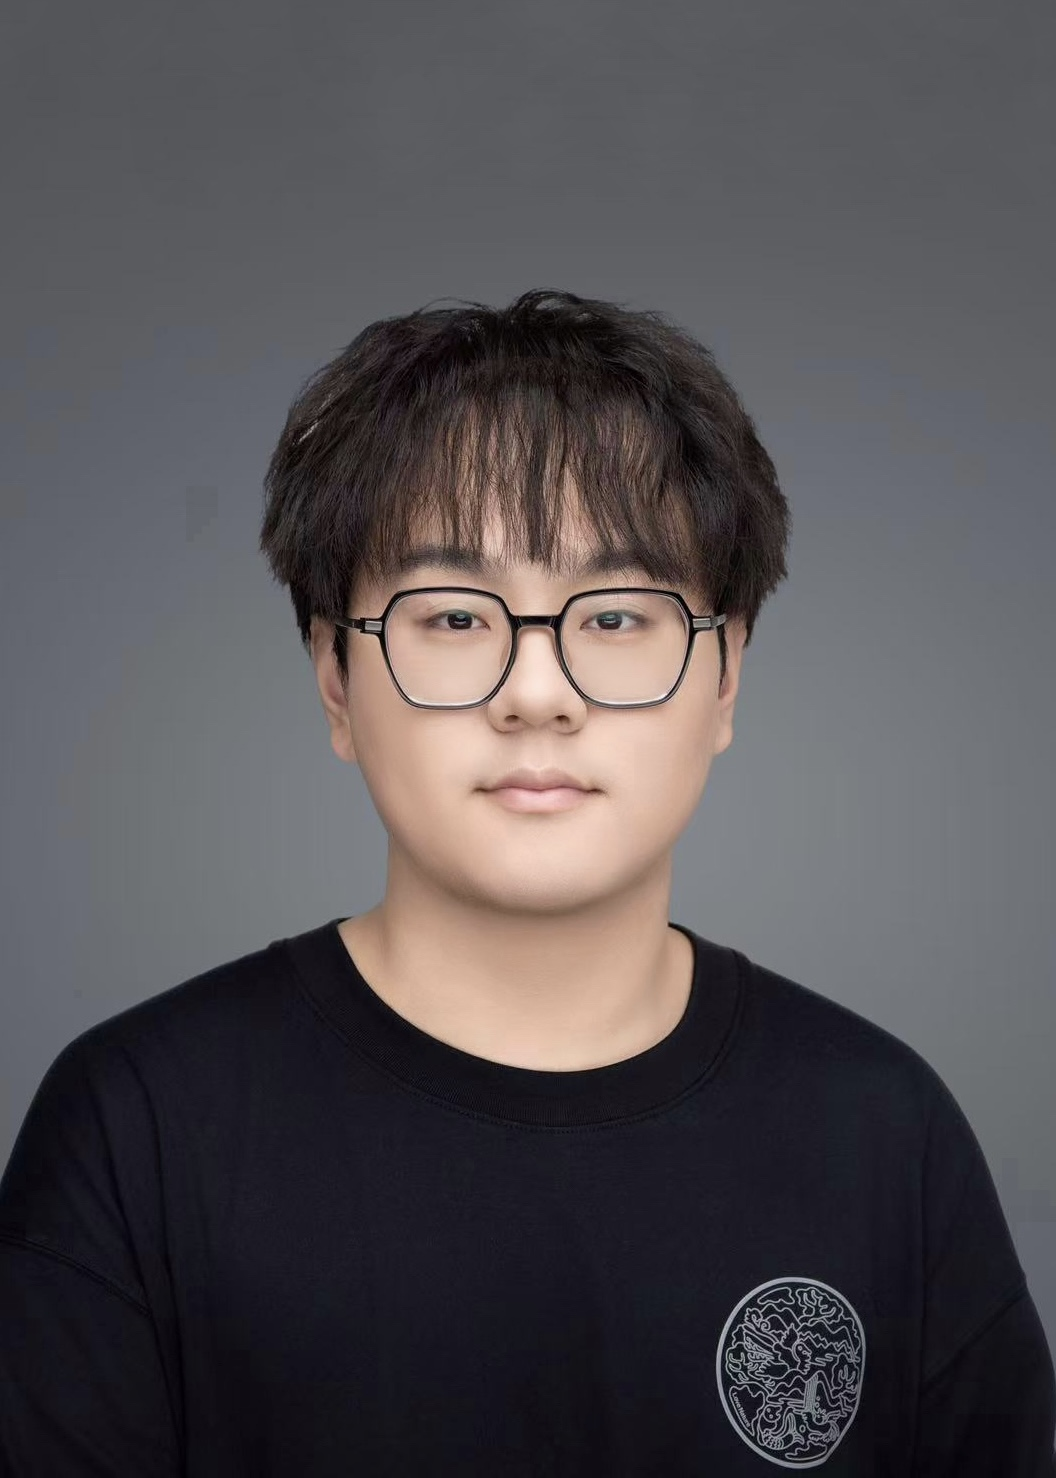
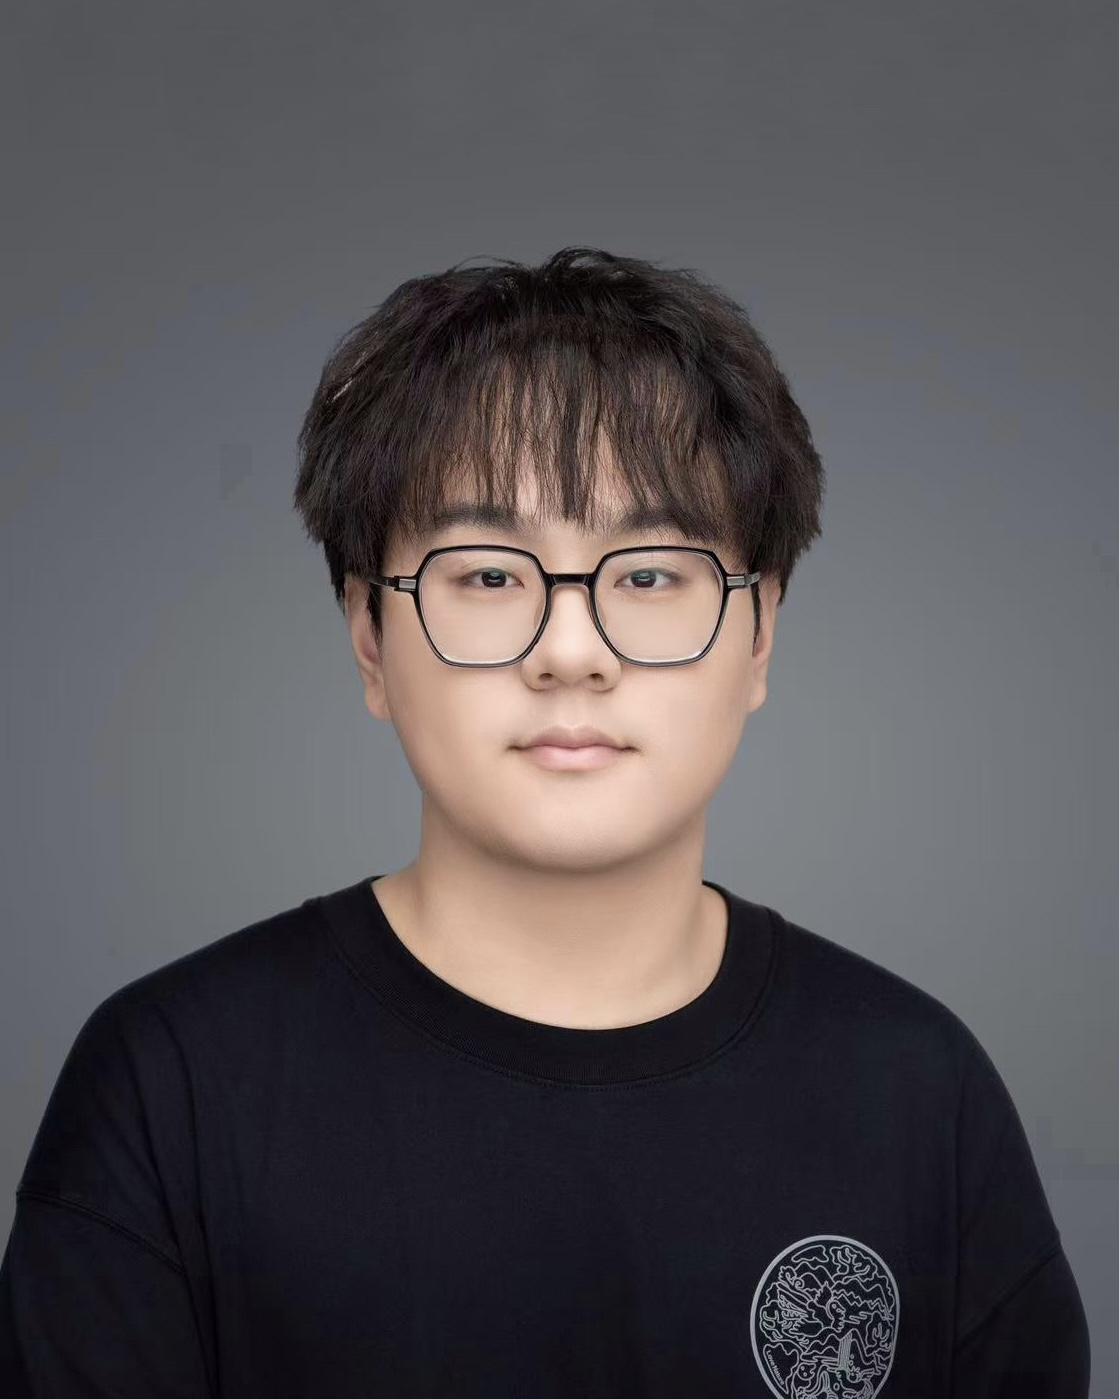
change team

diff --git a/team.html b/team.html
@@ -513,6 +513,20 @@
                             </div>
                         </div>
 
+                        <!--成员2-->
+						<div class="col">
+                            <div >
+                                <div class="px-3 mt-neg-4">
+                                    <img src="static/team_person/guowenkai.jpg" class="card-img" alt="" style="height: 100%;width: 90%;margin-left: 10px;">
+                                </div>
+                                <div class="card-body"  style="text-align: center;">
+                                    <h6 class="card-title mb-0 " style="font-size: 20px; color: black;"><a href="https://scholar.google.com/citations?user=5XqiG60AAAAJ&hl=en" style="color: black;">Wenkai Guo</a></h6>
+                                    <h6 class="card-title mb-0 " style="font-size: 15px; color: black;"><a href="" style="color: black;">(2025-,)</a></h6>
+                                </div>
+
+                            </div>
+                        </div>
+
 			</section>
 
 		<!-- START FOOTER -->
